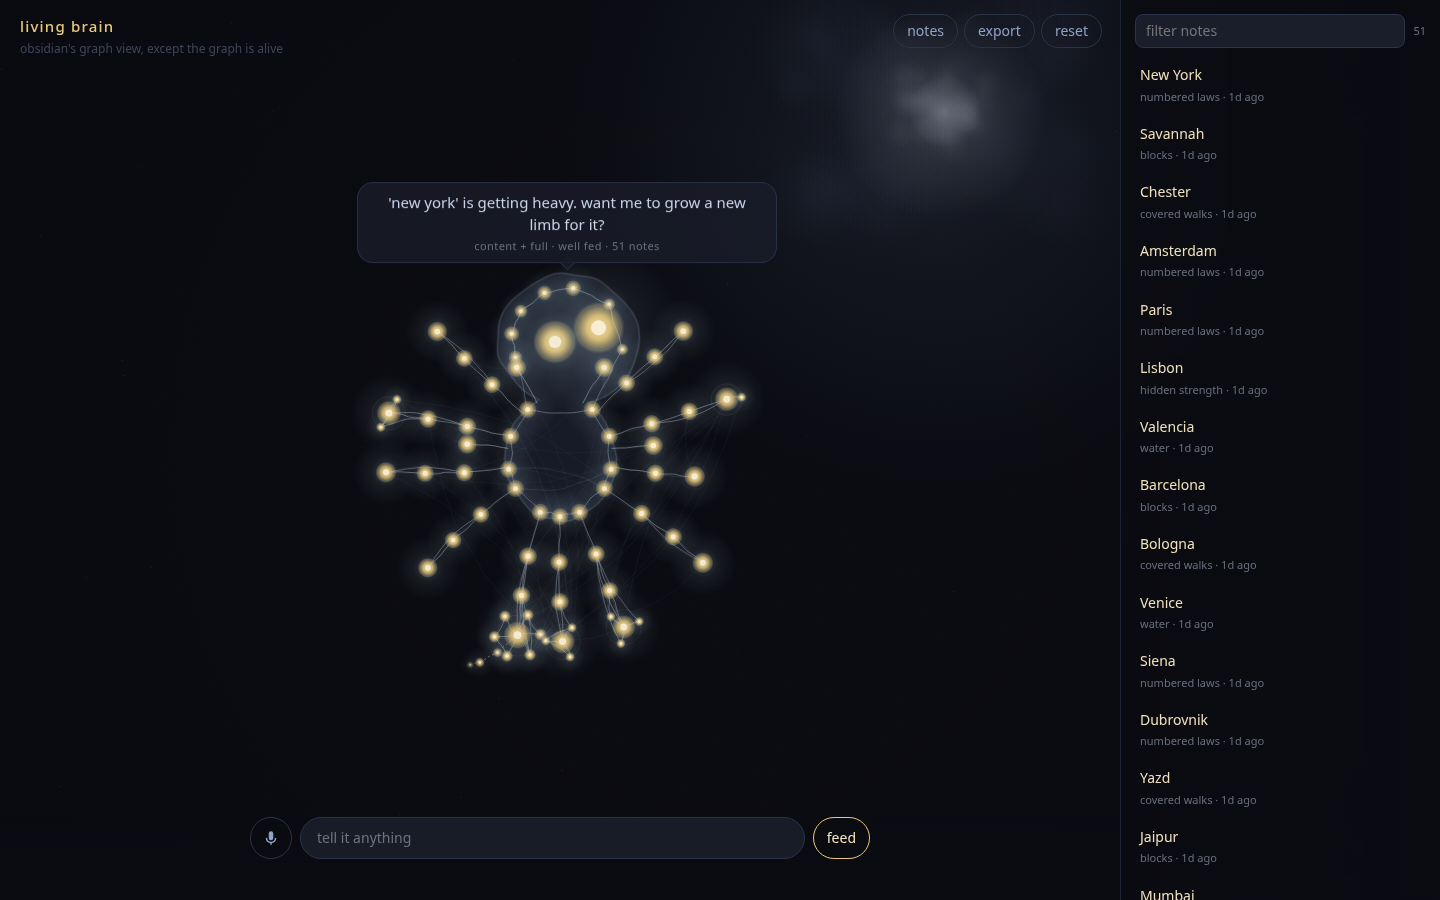
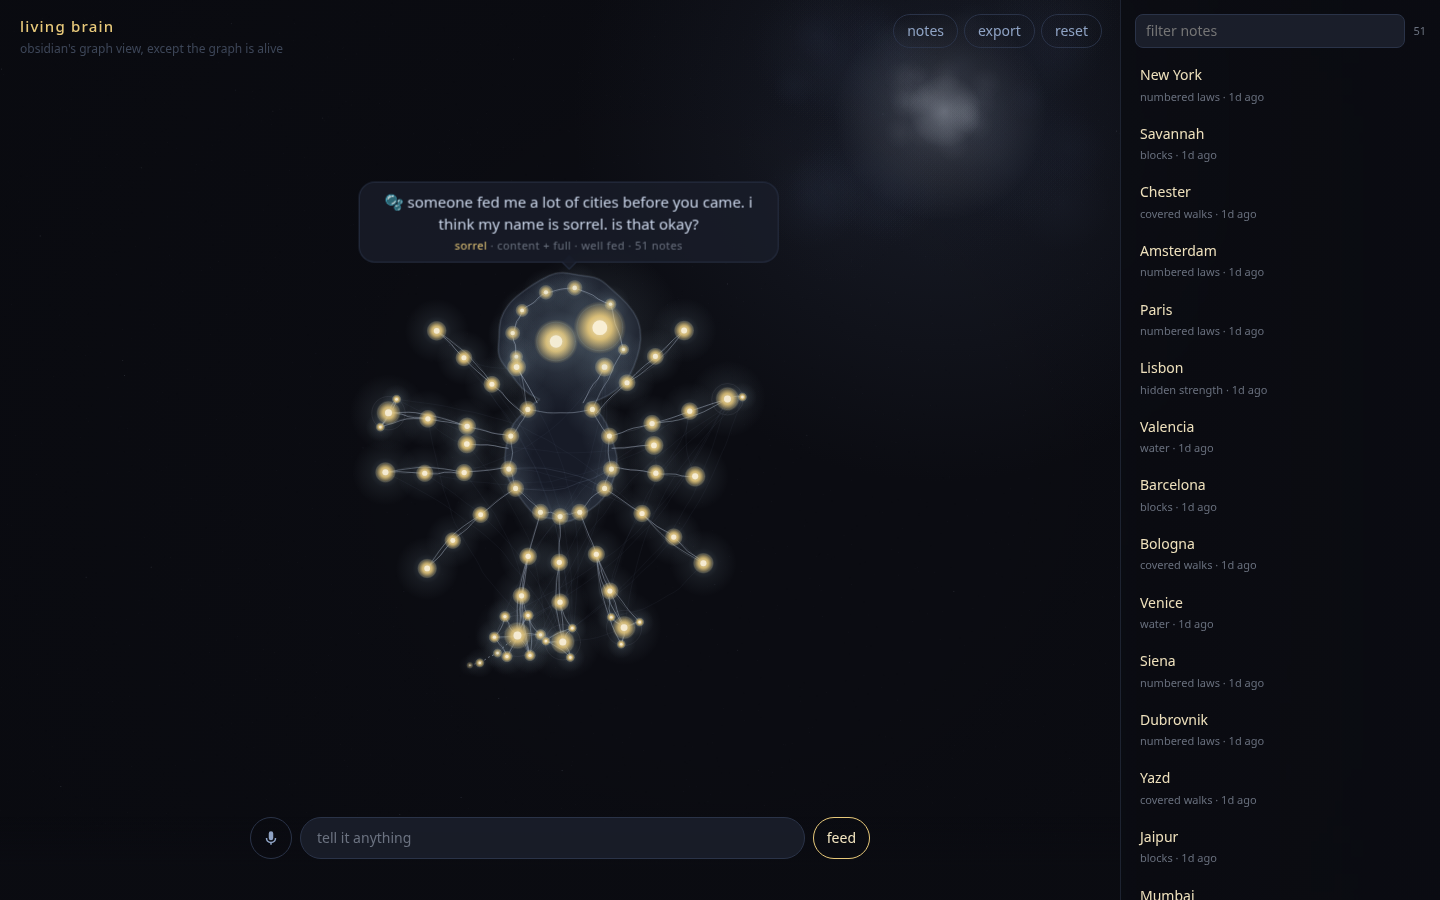
App: one welcome_well_fed line on a well-fed first run, then back to moods (by Forge)

Changed region(s): [[0.25, 0.2178, 0.5312, 0.28], [0.375, 0.3111, 0.4375, 0.3422], [0.3438, 0.3422, 0.375, 0.4044]]

diff --git a/app/app.js b/app/app.js
@@ -3,7 +3,7 @@
 import { createCreature } from '../viz/creature.js';
 import {
   STORAGE_KEY, emptyStore, tick, clusterHunger, newNote, touch, suggestLinks, openSuggestion, confirmLink, rejectLink,
-  detectContradictions, localJudge, openArgument, resolve, maybeName, speech,
+  detectContradictions, localJudge, openArgument, resolve, maybeName, speech, welcomeWellFed,
 } from './store.js';
 
 const $ = id => document.getElementById(id);
@@ -47,13 +47,13 @@ function loadSaved() { try { const s = JSON.parse(localStorage.getItem(STORAGE_K
 const fromSeed = () => JSON.parse(JSON.stringify({ ...emptyStore(), ...SEED }));
 
 // tick on load, after every change, and every 30 s. Always hands the viz clusterHunger().
-function refresh({ justAdded = false, lastNoteId = null, event = null, action = false } = {}) {
+function refresh({ justAdded = false, lastNoteId = null, event = null, action = false, say = null } = {}) {
   const now = Date.now();
   store = tick(store, now, { justAdded });
   const hunger = clusterHunger(store, now);
   creature.update({ ...store, hunger, now });
   if (action) held = false;
-  const next = speech(store, LINES, { hunger, event, lastNoteId });
+  const next = say || speech(store, LINES, { hunger, event, lastNoteId });
   if (next.event) { held = true; said = next; } // a one-off line holds until the next action
   else if (!held && next.key !== said.key) said = next;
   store = { ...store, creature: { ...store.creature, says: said.text } };
@@ -82,6 +82,19 @@ function openNote(id) {
   store = touch(store, id); // opening a note feeds it
   document.body.classList.remove('panel-closed'); $('toggle-panel').setAttribute('aria-expanded', 'true'); syncInset();
   refresh();
+}
+
+// First run: a hatchling gets the first-meal greeting; a creature that opens well fed gets one
+// welcome_well_fed line (once, flagged in creature.welcomed). Either holds until the first note or ~20 s.
+let welcomeTimer = 0;
+function firstRun() {
+  held = false;
+  store = tick(store, Date.now());
+  const w = welcomeWellFed(store, LINES);
+  if (w.said) { store = w.store; refresh({ say: w.said }); } else refresh({ event: 'first_meal' });
+  clearTimeout(welcomeTimer);
+  const key = said.key;
+  welcomeTimer = setTimeout(() => { if (said.key === key) { held = false; refresh(); } }, 20_000);
 }
 
 // ---------- render ----------
@@ -158,7 +171,7 @@ $('toggle-panel').onclick = () => { const closed = document.body.classList.toggl
 $('reset').onclick = () => {
   if (!confirm('start over? this clears your notes in this browser and reloads the seed.')) return;
   localStorage.removeItem(STORAGE_KEY); store = fromSeed(); openId = null; said = { key: '' };
-  refresh({ event: 'first_meal', action: true });
+  firstRun();
 };
 $('export').onclick = () => {
   const a = document.createElement('a');
@@ -205,7 +218,7 @@ const [seed, lines] = await Promise.all([
 SEED = seed; LINES = lines;
 const saved = loadSaved();
 store = saved || fromSeed();
-refresh({ event: saved ? null : 'first_meal' });
+if (saved) refresh(); else firstRun();
 setInterval(() => refresh(), 30_000);
 
 // handle for demos, tests, and a real model judge later:

diff --git a/app/store.js b/app/store.js
@@ -202,6 +202,20 @@ export function maybeName(store) {
 
 const fill = (tpl, v) => (tpl || '').replace(/\{(\w+)\}/g, (_, k) => v[k] ?? '');
 const low = s => String(s || '').toLowerCase();
+const nameFrom = notes => NAMES[notes.reduce((s, n) => s + [...String(n.text)].reduce((x, ch) => x + ch.charCodeAt(0), 0), 0) % NAMES.length];
+
+// First run that opens already well fed (not a hatchling): one welcome_well_fed line, once ever.
+// creature.welcomed persists that it was shown. If the line carries {name}, this is the naming
+// moment (waystone-lines.md): the creature picks its name here and the 10-note naming never fires.
+export function welcomeWellFed(store, lines, pick = Math.random) {
+  const arr = lines?.welcome_well_fed || [], c = store.creature || {};
+  const hatchling = c.stage === 'hatchling' || store.notes.filter(alive).length < 8;
+  if (!arr.length || hatchling || c.welcomed) return { store, said: null };
+  const tpl = arr[Math.floor(pick() * arr.length) % arr.length];
+  const name = c.name || (tpl.includes('{name}') ? nameFrom(store.notes) : null);
+  const s = { ...store, creature: { ...c, welcomed: true, ...(name ? { name } : {}) } };
+  return { store: s, said: { key: 'welcome', text: fill(tpl, { name }), event: true } };
+}
 // what the creature says now: { key, text }. key changes only when the situation does,
 // so the shell can keep one line per situation instead of chattering.
 export function speech(store, lines, { hunger, event, lastNoteId, pick = Math.random } = {}) {
